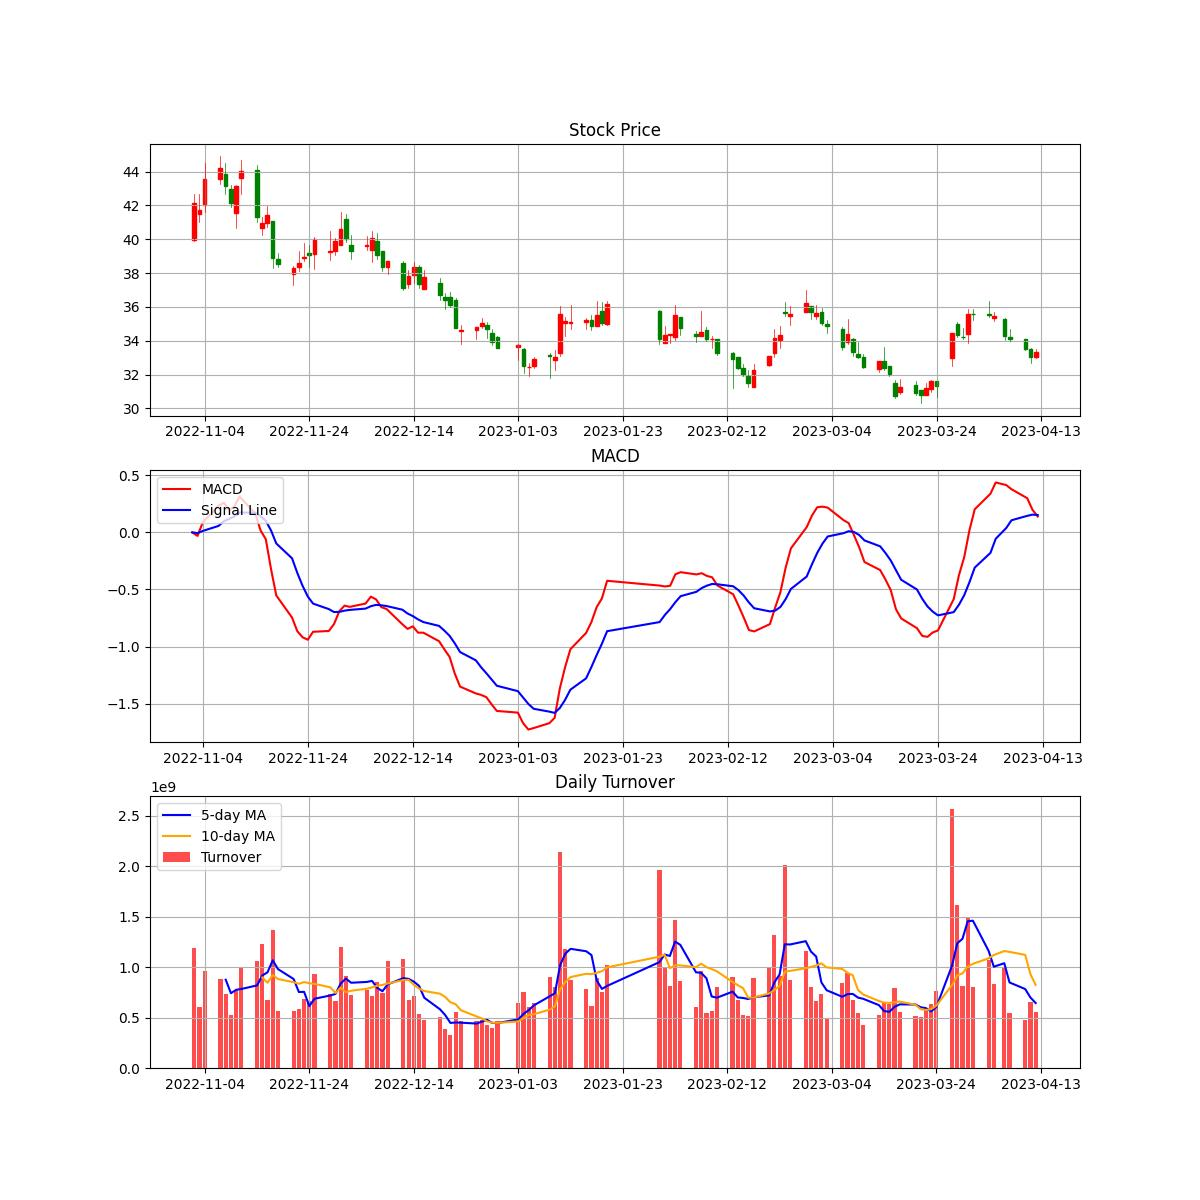
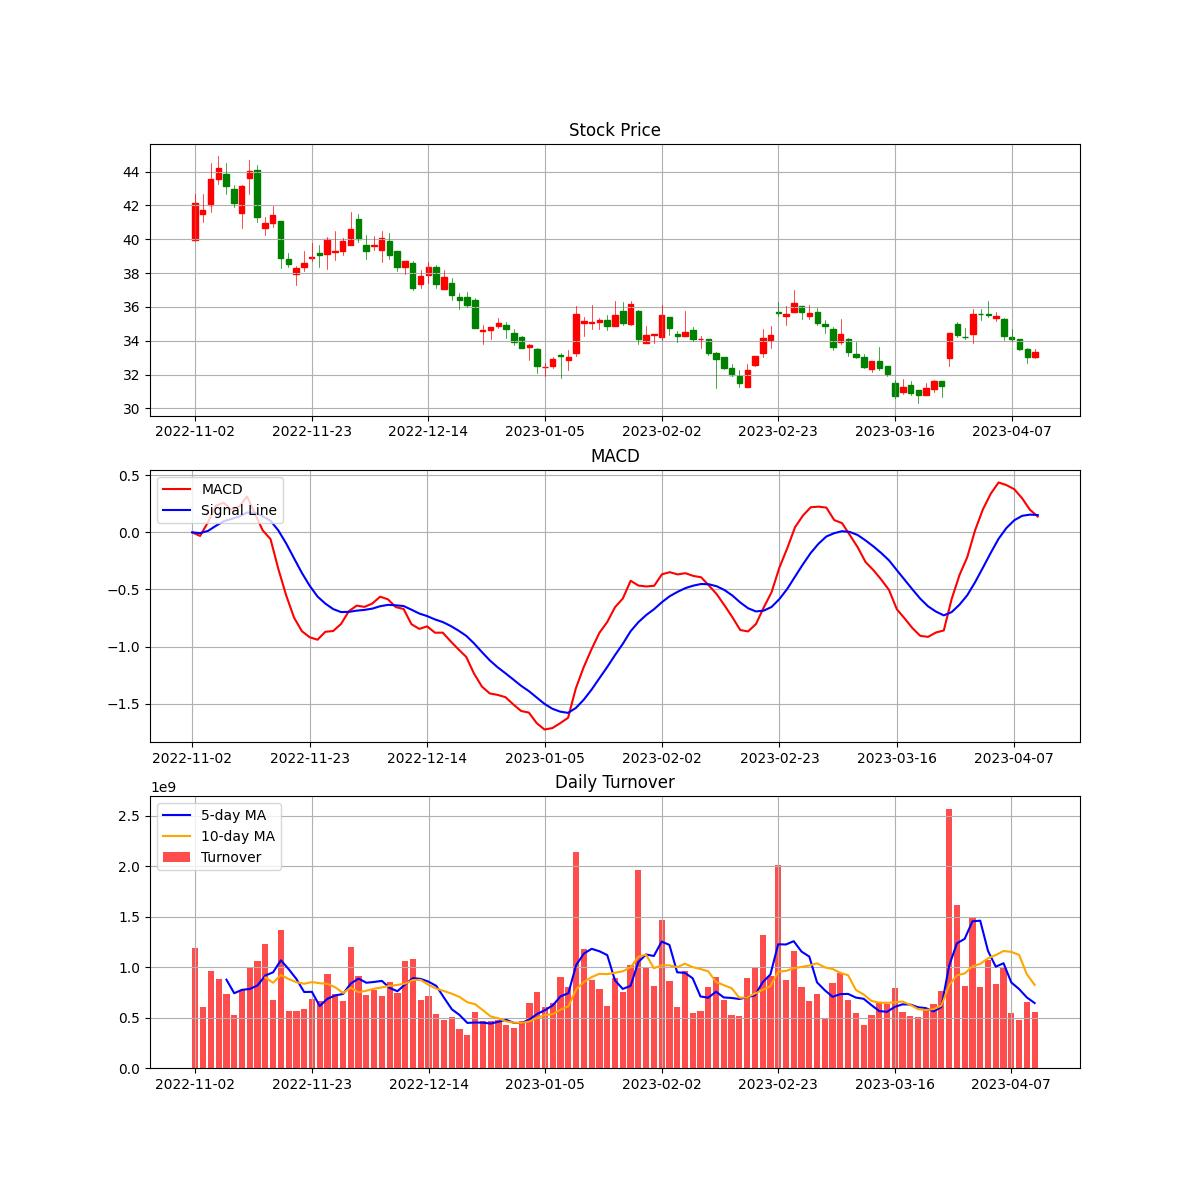
修改绘蜡烛图出现节假日空格的问题

diff --git a/StockDraw.py b/StockDraw.py
@@ -11,7 +11,6 @@ class StockDraw:
     def __init__(self, dfIn, strategyName):
         self.df = dfIn
         self.strategyName = strategyName
-        self.available_dates = pd.date_range(dfIn['date'].min(), dfIn['date'].max()).difference(dfIn['date'])
 
         # 检查 result 文件夹下是否有 strategyName 文件夹
         self.strategy_path = os.path.join("result", self.strategyName)
@@ -23,17 +22,17 @@ class StockDraw:
 
     def draw_candlestick(self, ax):
         ohlc = self.df[['date', 'open', 'high', 'low', 'close']].copy()
-        ohlc['date'] = mdates.date2num(ohlc['date'].dt.to_pydatetime())
-        ohlc = ohlc.values.tolist()
+        ohlc['date'] = pd.to_datetime(ohlc['date'])
+        ohlc['date_idx'] = range(len(ohlc))  # 添加整数索引
+        ohlc = ohlc[['date_idx', 'open', 'high', 'low', 'close']].values.tolist()
         candlestick_ohlc(ax, ohlc, width=0.7, colorup='red', colordown='green')
 
         ax.set_title('Stock Price')
-        ax.xaxis_date()
         ax.grid(True)
 
-        # 仅显示具有成交数据的日期
+        date_idx_to_date = self.df['date'].reset_index(drop=True).to_dict()  # 整数索引到日期的映射
         ax.xaxis.set_major_locator(ticker.MaxNLocator(integer=True, prune='both'))
-
+        ax.xaxis.set_major_formatter(ticker.FuncFormatter(lambda x, pos: date_idx_to_date.get(x, '')))  # 使用自定义刻度标签
 
 
 
@@ -48,7 +47,6 @@ class StockDraw:
 
         ax.legend(loc='upper left')
         ax.set_title('MACD')
-        ax.xaxis_date()
         ax.grid(True)
 
         # 仅显示具有成交数据的日期
@@ -83,7 +81,6 @@ class StockDraw:
 
         ax.legend(loc='upper left')
         ax.set_title('KDJ')
-        ax.xaxis_date()
         ax.grid(True)
 
         # 仅显示具有成交数据的日期
@@ -108,7 +105,6 @@ class StockDraw:
         
         ax.legend(loc='upper left')
         ax.set_title('Daily Turnover')
-        ax.xaxis_date()
         ax.grid(True)
 
         # 仅显示具有成交数据的日期
@@ -117,7 +113,6 @@ class StockDraw:
 
     def draw_macd_kdj(self, stock_code):
         df = self.df
-        df['date'] = pd.to_datetime(df['date'])
 
         fig, (ax1, ax2, ax3) = plt.subplots(3, 1, figsize=(12, 12))
 
@@ -129,7 +124,6 @@ class StockDraw:
 
     def draw_macd_candle(self, stock_code):
         df = self.df
-        df['date'] = pd.to_datetime(df['date'])
 
         fig, (ax1, ax2) = plt.subplots(2, 1, figsize=(12, 8))
 
@@ -140,7 +134,6 @@ class StockDraw:
 
     def draw_candle_macd_turnover(self, stock_code):
         df = self.df
-        df['date'] = pd.to_datetime(df['date'])
 
         fig, (ax1, ax2, ax3) = plt.subplots(3, 1, figsize=(12, 12))
 
